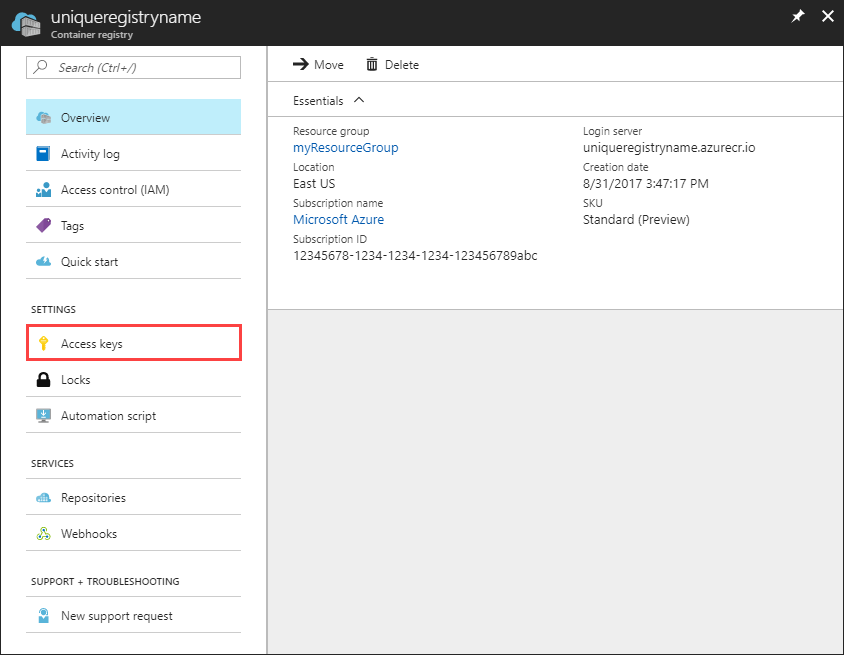
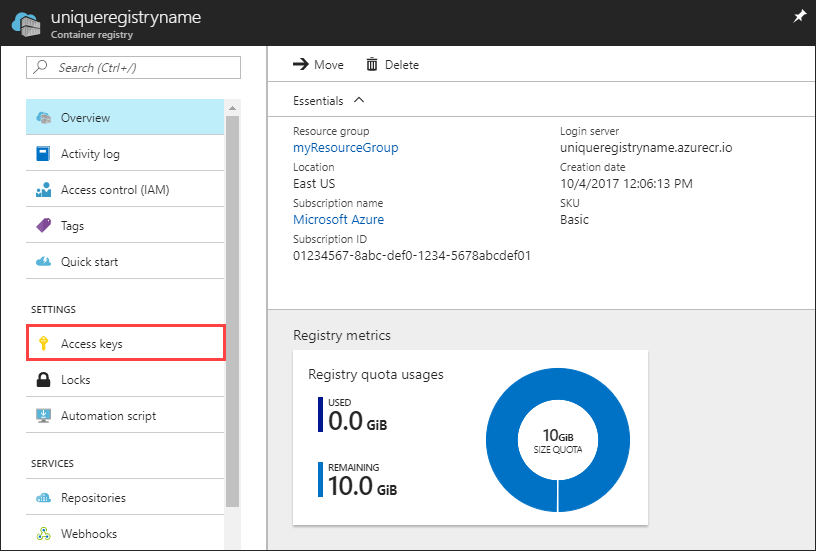
[acr] updates for managed GA

diff --git a/articles/container-registry/container-registry-get-started-azure-cli.md b/articles/container-registry/container-registry-get-started-azure-cli.md
@@ -54,10 +54,10 @@ az acr create --name myContainerRegistry007 --resource-group myResourceGroup --a
 
 When the registry is created, the output is similar to the following:
 
-```azurecli
+```json
 {
   "adminUserEnabled": true,
-  "creationDate": "2017-09-08T22:32:13.175925+00:00",
+  "creationDate": "2017-10-04T17:15:43.659380+00:00",
   "id": "/subscriptions/00000000-0000-0000-0000-000000000000/resourceGroups/myResourceGroup/providers/Microsoft.ContainerRegistry/registries/myContainerRegistry007",
   "location": "eastus",
   "loginServer": "myContainerRegistry007.azurecr.io",
@@ -66,11 +66,9 @@ When the registry is created, the output is similar to the following:
   "resourceGroup": "myResourceGroup",
   "sku": {
     "name": "Basic",
-    "tier": "Basic"
+    "tier": "Managed"
   },
-  "storageAccount": {
-    "name": "mycontainerregistr223140"
-  },
+  "storageAccount": null,
   "tags": {},
   "type": "Microsoft.ContainerRegistry/registries"
 }
@@ -82,7 +80,7 @@ Throughout the rest of this quickstart, we use `<acrname>` as a placeholder for 
 
 Before pushing and pulling container images, you must log in to the ACR instance. To do so, use the [az acr login](/cli/azure/acr#login) command.
 
-```azurecli-interactive
+```azurecli
 az acr login --name <acrname>
 ```
 
@@ -98,19 +96,19 @@ docker pull microsoft/aci-helloworld
 
 The image needs to be tagged with the ACR login server name. Run the following command to return the login server name of the ACR instance.
 
-```bash
+```azurecli
 az acr list --resource-group myResourceGroup --query "[].{acrLoginServer:loginServer}" --output table
 ```
 
 Tag the image using the [docker tag](https://docs.docker.com/engine/reference/commandline/tag/) command. Replace *<acrLoginServer>* with the login server name of your ACR instance.
 
-```
+```bash
 docker tag microsoft/aci-helloworld <acrLoginServer>/aci-helloworld:v1
 ```
 
 Finally, use [docker push](https://docs.docker.com/engine/reference/commandline/push/) to push the image to the ACR instance. Replace *<acrLoginServer>* with the login server name of your ACR instance.
 
-```
+```bash
 docker push <acrLoginServer>/aci-helloworld:v1
 ```
 
@@ -124,7 +122,7 @@ az acr repository list -n <acrname> -o table
 
 Output:
 
-```json
+```bash
 Result
 ----------------
 aci-helloworld
@@ -138,7 +136,8 @@ az acr repository show-tags -n <acrname> --repository aci-helloworld -o table
 
 Output:
 
-```Result
+```bash
+Result
 --------
 v1
 ```

diff --git a/articles/container-registry/container-registry-get-started-powershell.md b/articles/container-registry/container-registry-get-started-powershell.md
@@ -7,13 +7,12 @@ author: neilpeterson
 manager: timlt
 editor: tysonn
 
-
 ms.service: container-registry
 ms.devlang: na
 ms.topic: article
 ms.tgt_pltfrm: na
 ms.workload: na
-ms.date: 09/07/2017
+ms.date: 10/08/2017
 ms.author: nepeters
 ---
 
@@ -47,8 +46,8 @@ Create an ACR instance using the [New-AzureRMContainerRegistry](/powershell/modu
 
 The name of the registry **must be unique**. In the following example *myContainerRegistry007* is used. Update this to a unique value.
 
-```PowerShell
-$Registry = New-AzureRMContainerRegistry -ResourceGroupName "myResourceGroup" -Name "myContainerRegistry007" -EnableAdminUser -Sku Basic
+```powershell
+$registry = New-AzureRMContainerRegistry -ResourceGroupName "myResourceGroup" -Name "myContainerRegistry007" -EnableAdminUser -Sku Basic
 ```
 
 ## Log in to ACR
@@ -56,13 +55,13 @@ $Registry = New-AzureRMContainerRegistry -ResourceGroupName "myResourceGroup" -N
 Before pushing and pulling container images, you must log in to the ACR instance. First, use the [Get-AzureRmContainerRegistryCredential](/powershell/module/containerregistry/get-azurermcontainerregistrycredential) command to get the admin credentials for the ACR instance.
 
 ```powershell
-$creds = Get-AzureRmContainerRegistryCredential -Registry $Registry
+$creds = Get-AzureRmContainerRegistryCredential -Registry $registry
 ```
 
 Next, use the [docker login](https://docs.docker.com/engine/reference/commandline/login/) command to log in to the ACR instance.
 
 ```bash
-docker login $Registry.LoginServer -u $creds.Username -p $creds.Password
+docker login $registry.LoginServer -u $creds.Username -p $creds.Password
 ```
 
 The command returns a 'Login Succeeded' message once completed.
@@ -77,7 +76,7 @@ docker pull microsoft/aci-helloworld
 
 The image must be tagged with the ACR login server name. Run the [Get-AzureRmContainerRegistry](/powershell/module/containerregistry/Get-AzureRmContainerRegistry) command to return the login server name of the ACR instance.
 
-```powershell`
+```powershell
 Get-AzureRmContainerRegistry | Select Loginserver
 ```
 
